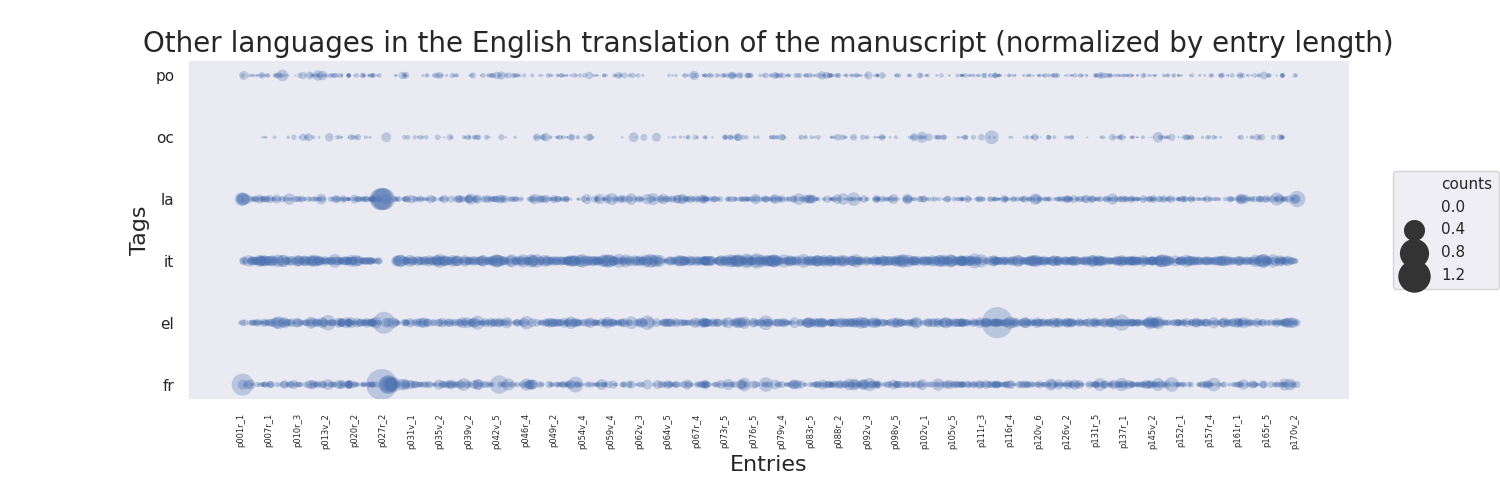
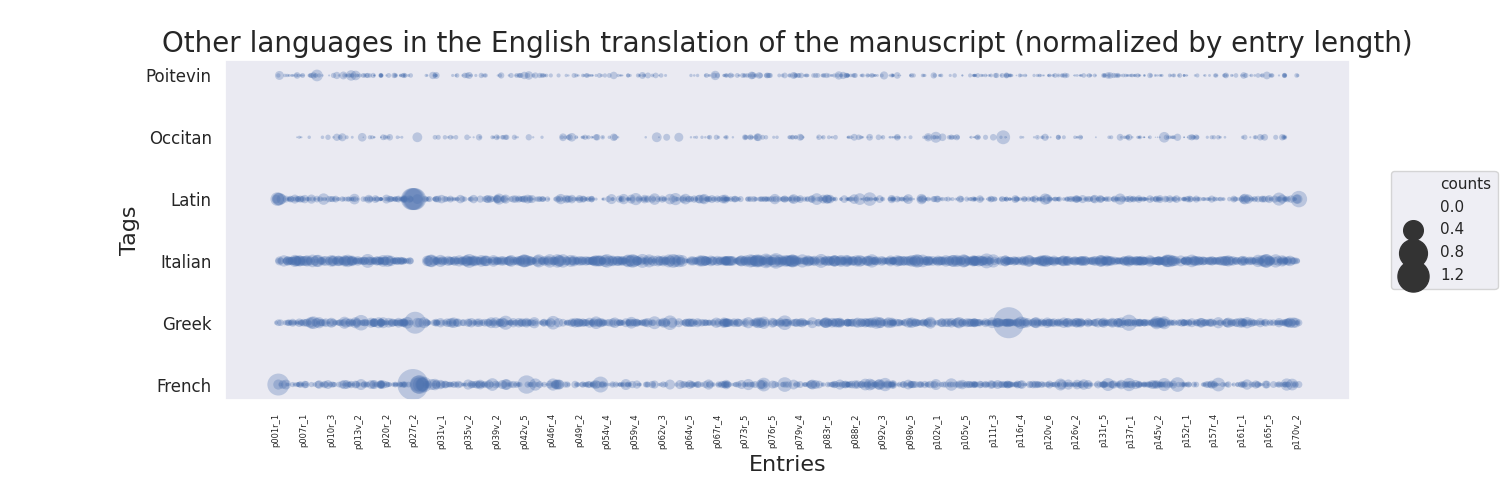
improved bubbleplots

diff --git a/manuscript_visualizations.py b/manuscript_visualizations.py
@@ -72,12 +72,13 @@ def tags_scatterplot(search_tags, filename, title):
     plt.close()
 
 
-def tags_bubbleplot(search_tags, filename, title, normalized):
+def tags_bubbleplot(search_tags, ylabels, filename, title):
     manuscript_version = "tl" # "tl", "tc" or "tcn"
 
     entries = []
     tags = []
     counts = []
+    normalized_counts = []
 
     entry = None
 
@@ -103,39 +104,52 @@ def tags_bubbleplot(search_tags, filename, title, normalized):
                 entries.append(entry)
                 tags.append(clean_tag(tag))
                 count = entry_text.count(clean_tag(tag))
-                if normalized:
-                    pure_text = etree.tostring(div, method = "text", encoding="UTF-8").decode('utf-8')
-                    entry_length = len(pure_text.split())
-                    if entry_length != 0:
-                        count /= entry_length
                 counts.append(count)
 
+                pure_text = etree.tostring(div, method = "text", encoding="UTF-8").decode('utf-8')
+                entry_length = len(pure_text.split())
+                normalized_count = count
+                if entry_length != 0:
+                    normalized_count /= entry_length
+                normalized_counts.append(normalized_count)
+
     df = pandas.DataFrame({"entries": entries, "tags": tags, "counts": counts})
+    df_normalized = pandas.DataFrame({"entries": entries, "tags": tags, "counts": normalized_counts})
 
-    plt.subplots(figsize = (15, 5))
-    plt.gcf().subplots_adjust(bottom = 0.2)
-    #plt.gcf().subplots_adjust(right = 0.95)
-    bubbleplot = sns.scatterplot(x = "entries", y = "tags", size = "counts", sizes = (0, 500), data = df, linewidth = 0, alpha = 0.3)
+    data_frames = [df, df_normalized]
+    title_appendices = ["", " (normalized by entry length)"]
+    filename_apppendices = ["", "_normalized"]
 
-    bubbleplot.grid(False)
-    bubbleplot.set_ylabel("Tags", fontsize = 16)
-    bubbleplot.set_xlabel("Entries", fontsize = 16)
-    bubbleplot.set_title(title, fontsize = 20)
+    for i in range(2):
 
-    individual_entries = list(dict.fromkeys(entries))
-    xlabels = []
-    for i in range(len(individual_entries)):
-        if i % 25 == 0:
-            xlabels.append(individual_entries[i])
-        else:
-            xlabels.append("")
-    bubbleplot.set_xticklabels(xlabels, rotation = 90, fontsize = 6)
-    #bubbleplot.legend(loc = "best", ncol = 1, framealpha = 0.2, fancybox = True)
-    plt.legend(bbox_to_anchor = (1.03, 0.5), loc = "center left", fancybox = True)
+        plt.subplots(figsize = (15, 5))
+        plt.gcf().subplots_adjust(bottom = 0.2)
+        plt.gcf().subplots_adjust(left = 0.15)
+        bubbleplot = sns.scatterplot(x = "entries", y = "tags", size = "counts",
+                                     sizes = (0, 500), data = data_frames[i],
+                                     linewidth = 0, alpha = 0.3)
 
-    fig = bubbleplot.get_figure()
-    fig.savefig(f"{viz_path}{filename}.png")
-    plt.close()
+        bubbleplot.grid(False)
+        bubbleplot.set_ylabel("Tags", fontsize = 16)
+        bubbleplot.set_xlabel("Entries", fontsize = 16)
+        bubbleplot.set_title(title + title_appendices[i], fontsize = 20)
+
+        individual_entries = list(dict.fromkeys(entries))
+        xlabels = []
+        for j in range(len(individual_entries)):
+            if j % 25 == 0:
+                xlabels.append(individual_entries[j])
+            else:
+                xlabels.append("")
+        bubbleplot.set_xticklabels(xlabels, rotation = 90, fontsize = 6)
+        bubbleplot.set_yticklabels(ylabels, fontsize = 12)
+        #bubbleplot.legend(loc = "best", ncol = 1, framealpha = 0.2, fancybox = True)
+        plt.legend(bbox_to_anchor = (1.03, 0.5), loc = "center left",
+                   fancybox = True)
+
+        fig = bubbleplot.get_figure()
+        fig.savefig(f"{viz_path}{filename}{filename_apppendices[i]}.png")
+        plt.close()
 
 
 def categories_barplot():
@@ -270,7 +284,7 @@ def tags_by_category_barplot(search_tags, filename, title, stacked):
     plt.close()
 
 
-def tagged_length_barplot(tags, xlegend, filename):
+def tagged_length_barplot(tags, xlabels, filename):
     ntags = len(tags)
     for manuscript_version in ["tc", "tcn", "tl"]:
         lengths = np.zeros(ntags)
@@ -301,7 +315,7 @@ def tagged_length_barplot(tags, xlegend, filename):
         barplt.set_ylabel("Average number of words inside tag", fontsize = 16)
         barplt.set_xlabel("Tag", fontsize = 16)
         barplt.set_title(f"How many words there inside a tag [{manuscript_version}]", fontsize = 18)
-        barplt.set_xticklabels(xlegend, rotation = 90, fontsize = 14)
+        barplt.set_xticklabels(xlabels, rotation = 90, fontsize = 14)
 
         fig = barplt.get_figure()
         fig.savefig(f"{viz_path}{filename}_{manuscript_version}.png")
@@ -592,17 +606,10 @@ viz_path = viz_dir + "bubbleplots/"
 if not os.path.exists(viz_path):
     os.mkdir(viz_path)
 
-tags_bubbleplot(language_tags, "languages_bubbles", "Other languages in the English translation of the manuscript", False)
-tags_bubbleplot(language_tags, "languages_bubbles_normalized", "Other languages in the English translation of the manuscript (normalized by entry length)", True)
-
-tags_bubbleplot(["<del>", "<add>"], "add_del_bubbles", "Additions and deletions by the author-practitioner", False)
-tags_bubbleplot(["<del>", "<add>"], "add_del_bubbles_normalized", "Additions and deletions by the author-practitioner (normalized by entry length)", True)
-
-tags_bubbleplot(margin_types, "margins_bubbles", "Margins in the manuscript", False)
-tags_bubbleplot(margin_types, "margins_bubbles_normalized", "Margins in the manuscript (normalized by entry length)", True)
-
-tags_bubbleplot(semantic_tags, "semantic_tags_bubbles", "Semantic tags in the manuscript", False)
-tags_bubbleplot(semantic_tags, "semantic_tags_bubbles_normalized", "Semantic tags in the manuscript (normalized by entry length)", True)
+tags_bubbleplot(language_tags, languages, "languages_bubbles", "Other languages in the English translation of the manuscript")
+tags_bubbleplot(["<del>", "<add>"], ["additions", "deletions"], "add_del_bubbles", "Additions and deletions by the author-practitioner")
+tags_bubbleplot(margin_types, margin_types, "margins_bubbles", "Margins in the manuscript")
+tags_bubbleplot(semantic_tags, semantic_tags_legend, "semantic_tags_bubbles", "Semantic tags in the manuscript")
 
 print("Bubbleplots finished.")
 
